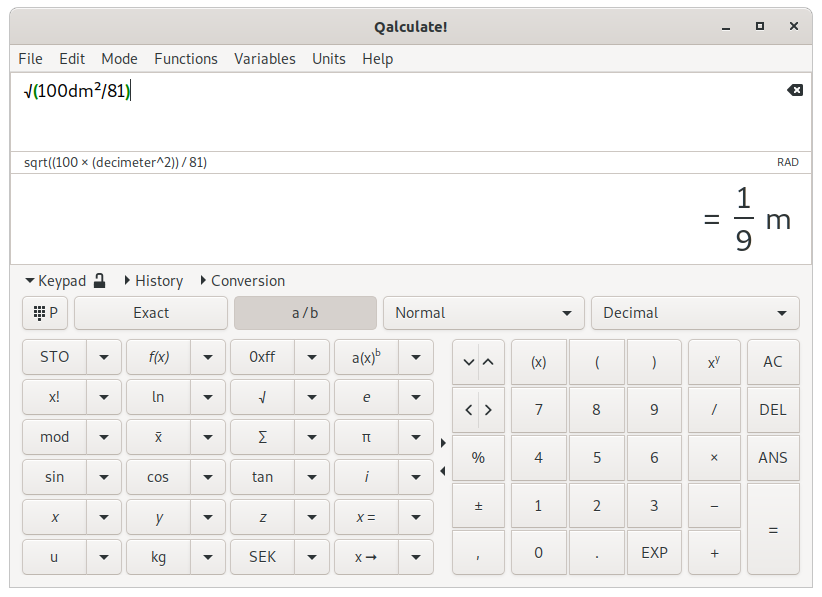
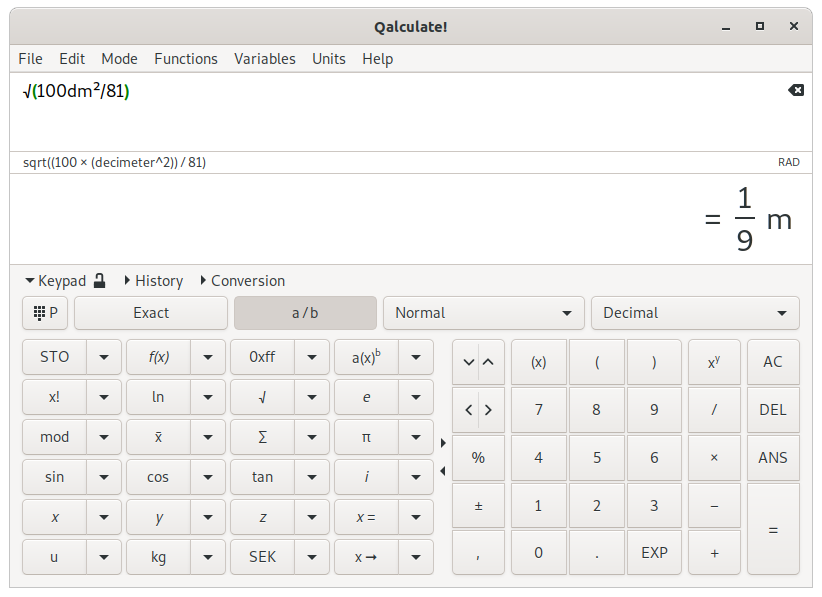
Minor screenshots fixes

diff --git a/doc/html/qalculate-user-interface.html b/doc/html/qalculate-user-interface.html
@@ -69,7 +69,7 @@ The buttons on the left side can be replaced (using the top left button or <span
 </p><div class="table"><a name="qalculate-TBL-programming-keypad"></a><p class="title"><b>Table 2.3. Programming Keypad</b></p><div class="table-contents"><table class="table" summary="Programming Keypad" border="1"><colgroup><col width="10%" align="center" class="COLSPEC0"><col class="COLSPEC1"></colgroup><thead><tr valign="top"><th align="center" valign="top"><p>Button</p></th><th valign="top"><p>Left-click</p></th><th valign="top"><p>Right-click or long press</p></th></tr></thead><tbody><tr valign="top"><td align="center" valign="top"><p>BIN</p></td><td valign="top"><p>Switches to binary number base for expressions and result display.</p></td><td valign="top"><p>Toggles binary number base for result display on/off.</p></td></tr><tr valign="top"><td align="center" valign="top"><p>OCT</p></td><td valign="top"><p>Switches to octal number base for expressions and result display.</p></td><td valign="top"><p>Toggles octal number base for result display on/off.</p></td></tr><tr valign="top"><td align="center" valign="top"><p>DEC</p></td><td valign="top"><p>Switches to decimal number base for expressions and result display.</p></td><td valign="top"><p>Toggles decimal number base for result display on/off.</p></td></tr><tr valign="top"><td align="center" valign="top"><p>HEX</p></td><td valign="top"><p>Switches to hexadecimal number base for expressions and result display.</p></td><td valign="top"><p>Toggles hexadecimal number base for result display on/off.</p></td></tr><tr valign="top"><td align="center" valign="top"><p>ALL</p></td><td valign="top"><p>Opens the number bases converter. See <a class="xref" href="qalculate-user-interface.html#qalculate-convert-number-bases-dialog" title="Convert Number Bases Dialog">the section called “Convert Number Bases Dialog”</a></p></td><td valign="top"><p>-</p></td></tr><tr valign="top"><td align="center" valign="top"><p>2→</p></td><td valign="top"><p>Toggles two's complement representation on/off for input of negative numbers.</p></td><td valign="top"><p>-</p></td></tr><tr valign="top"><td align="center" valign="top"><p>→2</p></td><td valign="top"><p>Toggles two's complement representation on/off for display of negative numbers.</p></td><td valign="top"><p>-</p></td></tr><tr valign="top"><td align="center" valign="top"><p>A</p></td><td valign="top"><p>Hexadecimal digit</p></td><td valign="top"><p>-</p></td></tr><tr valign="top"><td align="center" valign="top"><p>B</p></td><td valign="top"><p>Hexadecimal digit</p></td><td valign="top"><p>-</p></td></tr><tr valign="top"><td align="center" valign="top"><p>C</p></td><td valign="top"><p>Hexadecimal digit</p></td><td valign="top"><p>-</p></td></tr><tr valign="top"><td align="center" valign="top"><p>D</p></td><td valign="top"><p>Hexadecimal digit</p></td><td valign="top"><p>-</p></td></tr><tr valign="top"><td align="center" valign="top"><p>E</p></td><td valign="top"><p>Hexadecimal digit</p></td><td valign="top"><p>-</p></td></tr><tr valign="top"><td align="center" valign="top"><p>F</p></td><td valign="top"><p>Hexadecimal digit</p></td><td valign="top"><p>-</p></td></tr><tr valign="top"><td align="center" valign="top"><p>AND</p></td><td valign="top"><p>Bitwise AND operator (&amp;)</p></td><td valign="top"><p>Logical AND operator (&amp;&amp;)</p></td></tr><tr valign="top"><td align="center" valign="top"><p>OR</p></td><td valign="top"><p>Bitwise OR operator (|)</p></td><td valign="top"><p>Logical OR operator (||)</p></td></tr><tr valign="top"><td align="center" valign="top"><p>XOR</p></td><td valign="top"><p>Bitwise exclusive OR operator (xor)</p></td><td valign="top"><p>-</p></td></tr><tr valign="top"><td align="center" valign="top"><p>NOT</p></td><td valign="top"><p>Bitwise NOT operator (~)</p></td><td valign="top"><p>Logical NOT operator (!)</p></td></tr><tr valign="top"><td align="center" valign="top"><p>&lt;&lt;</p></td><td valign="top"><p>Bitwise left shift operator</p></td><td valign="top"><p>-</p></td></tr><tr valign="top"><td align="center" valign="top"><p>&gt;&gt;</p></td><td valign="top"><p>Bitwise right shift operator</p></td><td valign="top"><p>-</p></td></tr><tr valign="top"><td align="center" valign="top"><p>cmp</p></td><td valign="top"><p>Bitwise complement (NOT) function (specify bit width and signedness)</p></td><td valign="top"><p>-</p></td></tr><tr valign="top"><td align="center" valign="top"><p>rot</p></td><td valign="top"><p>Bitwise rotation function</p></td><td valign="top"><p>-</p></td></tr><tr valign="top"><td align="center" valign="top"><p>mod</p></td><td valign="top"><p>Modulus operator</p></td><td valign="top"><p>Remainder operator</p></td></tr><tr valign="top"><td align="center" valign="top"><p>div</p></td><td valign="top"><p>Integer division operator</p></td><td valign="top"><p>-</p></td></tr><tr valign="top"><td align="center" valign="top"><p>int</p></td><td valign="top"><p>Integer part function (<span class="quote">“<span class="quote">frac(-5.2) = -5</span>”</span>)</p></td><td valign="top"><p>-</p></td></tr><tr valign="top"><td align="center" valign="top"><p>frac</p></td><td valign="top"><p>Fractional part function (<span class="quote">“<span class="quote">frac(-5.2) = -0.2</span>”</span>)</p></td><td valign="top"><p>-</p></td></tr><tr valign="top"><td align="center" valign="top"><p>x<sup>-1</sup></p></td><td valign="top"><p>Reciprocal (1/x) function</p></td><td valign="top"><p>-</p></td></tr><tr valign="top"><td align="center" valign="top"><p>|x|</p></td><td valign="top"><p>Absolute value function (<span class="quote">“<span class="quote">abs(-5) = 5</span>”</span>)</p></td><td valign="top"><p>-</p></td></tr><tr valign="top"><td align="center" valign="top"><p>√</p></td><td valign="top"><p>Square root function</p></td><td valign="top"><p>Cube root function</p></td></tr><tr valign="top"><td align="center" valign="top"><p>ln</p></td><td valign="top"><p>Natural logarithm function</p></td><td valign="top"><p>-</p></td></tr><tr valign="top"><td align="center" valign="top"><p>log<sub>2</sub></p></td><td valign="top"><p>Base-2 logarithm function</p></td><td valign="top"><p>Base-10 logarithm function</p></td></tr><tr valign="top"><td align="center" valign="top"><p>exp</p></td><td valign="top"><p>Exponential function (e<sup>x</sup>)</p></td><td valign="top"><p>Base-2 exponential function (2<sup>x</sup>)</p></td></tr><tr valign="top"><td align="center" valign="top"><p>x!</p></td><td valign="top"><p>Factorial (e.g. <span class="quote">“<span class="quote">5!=factorial(5)=5×4×3×2×1=120</span>”</span>)</p></td><td valign="top"><p>-</p></td></tr><tr valign="top"><td align="center" valign="top"><p>a×b</p></td><td valign="top"><p>(Integer) factorizes the result (or the current expression).</p></td><td valign="top"><p>-</p></td></tr><tr valign="top"><td align="center" valign="top"><p>fp</p></td><td valign="top"><p>Opens a window for conversion between decimal values and floating point formats.</p></td><td valign="top"><p>-</p></td></tr><tr valign="top"><td align="center" valign="top"><p>a→1</p></td><td valign="top"><p><span class="command"><strong>code()</strong></span> function (returns numeric code of Unicode character)</p></td><td valign="top"><p><span class="command"><strong>char()</strong></span> function (for conversion of numeric code to Unicode character)</p></td></tr><tr valign="top"><td align="center" valign="top"><p>u→d</p></td><td valign="top"><p>Function for conversion of Unix timestamp to date and time</p></td><td valign="top"><p>Function for conversion of date and time to Unix timestamp</p></td></tr><tr valign="top"><td align="center" valign="top"><p>STO</p></td><td valign="top"><p>Stores the current result in a variable. See <a class="xref" href="qalculate-variables.html#qalculate-variable-creation" title="Variable creation/editing">the section called “Variable creation/editing”</a></p></td><td valign="top"><p>Opens a menu with a list of created variables. Left click to insert the variable. Right click for the option to edit or delete the variable, or store the current result in the variable.</p></td></tr></tbody></table></div></div><p><br class="table-break">
 </p></div><div class="sect1"><div class="titlepage"><div><div><h2 class="title" style="clear: both"><a name="qalculate-calculation-history"></a>Calculation History</h2></div></div></div><p>
 The history view provides access to previous calculation results (50 rows are reloaded on restart). Previous expressions and results, as well as errors and warnings, are listed. The text of one or multiple entries can be copied to the clipboard using the <span class="guibutton">Copy</span> button to the right of the list.
-</p><div class="figure"><a name="qalculate-FIG-calculation-history"></a><p class="title"><b>Figure 2.5. Calculation History</b></p><div class="figure-contents"><div class="screenshot"><div class="mediaobject"><table border="0" summary="manufactured viewport for HTML img" style="cellpadding: 0; cellspacing: 0;" width="518"><tr><td><img src="figures/calculation-history.png" width="518" alt="Calculation History"></td></tr></table></div></div></div></div><p><br class="figure-break">
+</p><div class="figure"><a name="qalculate-FIG-calculation-history"></a><p class="title"><b>Figure 2.5. Calculation History</b></p><div class="figure-contents"><div class="screenshot"><div class="mediaobject"><table border="0" summary="manufactured viewport for HTML img" style="cellpadding: 0; cellspacing: 0;" width="517"><tr><td><img src="figures/calculation-history.png" width="517" alt="Calculation History"></td></tr></table></div></div></div></div><p><br class="figure-break">
 </p><p>Double click an item in the history list or use the <span class="guibutton">Value</span> or the <span class="guibutton">Text</span> button to paste the selected value or expression into the expression entry. The <span class="guibutton">Value</span> button inserts the actual value, using the answer() and expression() functions (for results and parsed expressions, respectively) with the current history index (indicated in the left column of the list), as argument, instead of the text (which might be inexact and is not guaranteed to be parsed correctly). This is not possible for the history entries of previous sessions. When an item is double clicked the the actual value is used for results, but the text for expressions, allowing editing of the expression. 
 </p><p>
 The to right of the list are also buttons for mathematical operations. These acts on the selected history items (the <span class="guibutton">+</span> will calculate the sum of the selected values, while the <span class="guibutton">−</span> will calculated the difference between the first, uppermost, selected value and the rest, in order). If no value is marked the sign for the operator will be inserted into the expression entry (as the buttons on the keypad). If only one item is selected the buttons also uses the current expression (the <span class="guibutton">+</span> button will append <span class="quote">“<span class="quote">+ [value]</span>”</span> to the current expression). The square root button will however only act on single values. When persistent keypad are active, the corresponding buttons on the right side of the keypad provide the same functionality.

diff --git a/README.md b/README.md
@@ -1,6 +1,6 @@
 # Qalculate! GTK+ UI
 
-<a href="https://github.com/Qalculate/qalculate-gtk/raw/master/data/qalculate-gtk-appdata-1.png"><img src="https://github.com/Qalculate/qalculate-gtk/raw/master/data/qalculate-gtk-appdata-1.png" width="517"></a>
+<a href="https://github.com/Qalculate/qalculate-gtk/raw/master/data/qalculate-gtk-appdata-1.png"><img src="https://github.com/Qalculate/qalculate-gtk/raw/master/data/qalculate-gtk-appdata-1.png" width="510"></a>
 
 Qalculate! is a multi-purpose cross-platform desktop calculator. It is simple to use but provides power and versatility normally reserved for complicated math packages, as well as useful tools for everyday needs (such as currency conversion and percent calculation). Features include a large library of customizable functions, unit calculations and conversion, symbolic calculations (including integrals and equations), arbitrary precision, uncertainty propagation, interval arithmetic, plotting, and a user-friendly interface (GTK+ and CLI).
 
